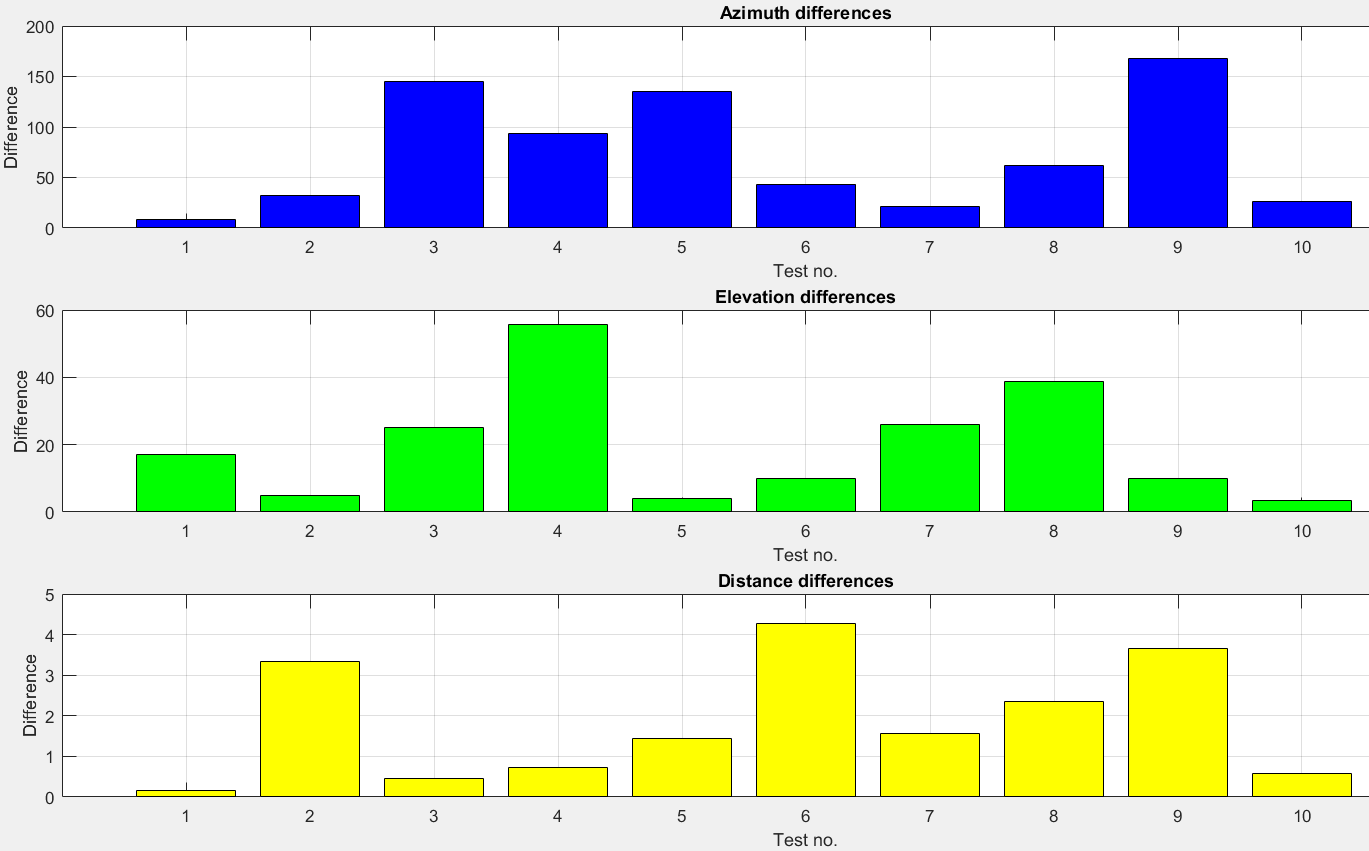
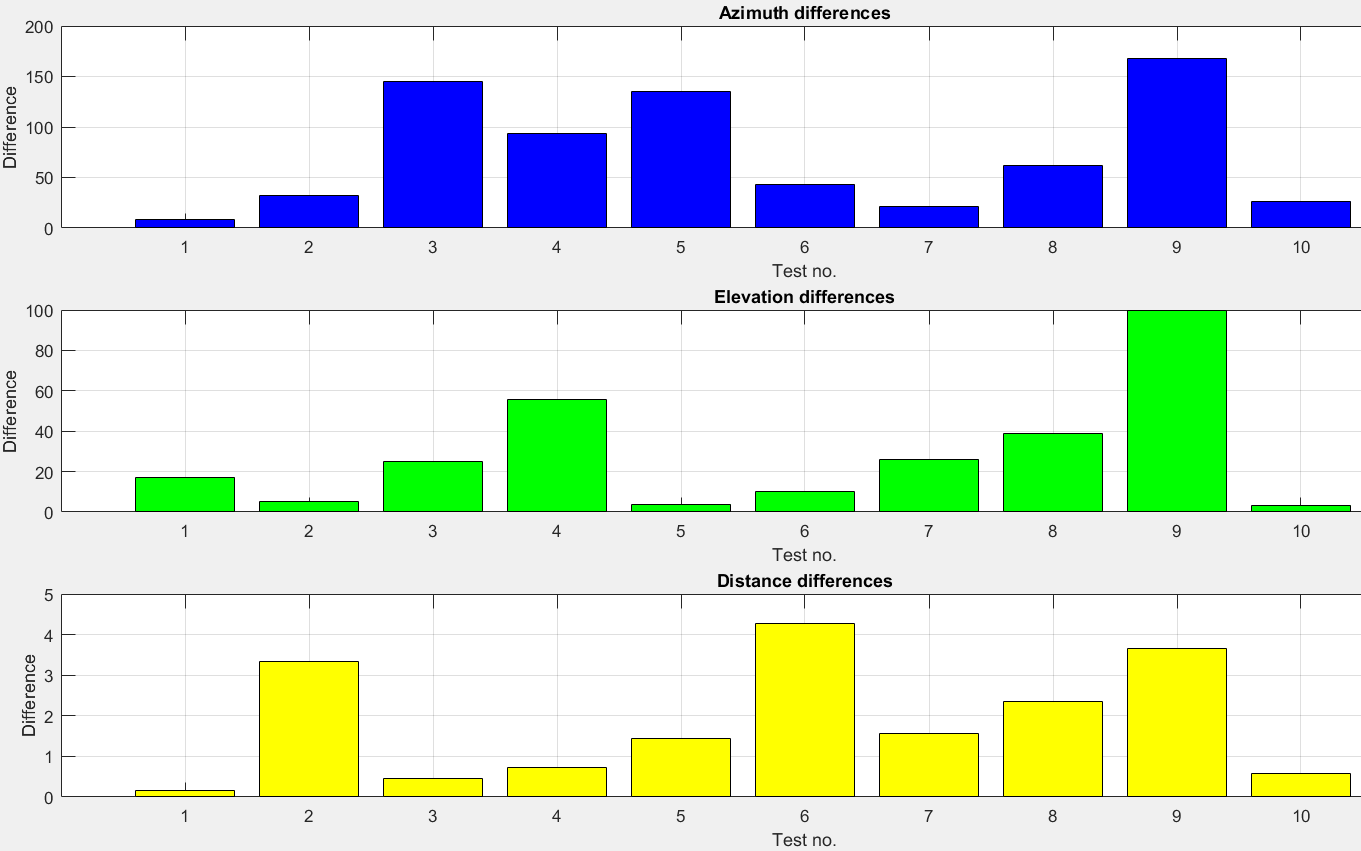
resultater

diff --git a/AUTE/Projekt/Rapport2/Tests/Resultater.tex b/AUTE/Projekt/Rapport2/Tests/Resultater.tex
@@ -1,10 +1,78 @@
 \section{Resultater}
 
+Testsignalerne er placeret som vist i nedenstående tabel.
+
+\begin{tabular}{p{3.2cm}|p{2.3cm}|p{2.3cm}|p{2.3cm}}
+	Testsignal nr. & Azimuth i grader & Elevation i grader & Distance i meter \\\hline
+	Referencesignalet & 0 & 0 & 1 \\
+	1 &90&0&1 \\
+	2 &270&0&2 \\
+	3 &180&0&1 \\
+	4 &180&-30&1 \\
+	5 &0&30&1 \\
+	6 &60&10&3 \\
+	7 &240&-10&0.5 \\
+	8 &5&-20&1.1 \\
+	9 &0&90&2 \\
+	10 &135&0&9.8 \\
+\end{tabular}
+
+Med alle indsamlede data fra lyttetestene, laves plottet på figur \ref{fig:allplots}. Her ses det, at selvom en del af resultaterne rammer nogenlunde indenfor de angivne testsignaler, er der mange svar som er placeret meget langt fra testsignalerne. 
+
 
 
 \begin{figure}
 	\centering
-	\includegraphics[width=1\linewidth]{All_Pics/resoverblikdiff.png}
-	\caption{}
+	\includegraphics[width=1\linewidth]{All_Pics/allplots}
+	\caption{Plot af både lyttetestens testsignaler, samt alle angivne svar.}
+	\label{fig:allplots}
+\end{figure}
+
+Zommes der ind på et enkelt testsignal, kan man se hvordan svarende har placeret sig. Når figur \ref{fig:test1plot} og figur \ref{fig:test8plot} sammenlignes, ses det, at der er væsenstligt flere svar som ligger i samme position for testsignal nr. 1, end for testsignal nr. 8. Det må deraf konkluderes at testsignal nr. 8, har været en sværere position af høre, end testsignal nr. 1.
+
+\begin{figure}[h]
+	\centering
+	\includegraphics[width=1\linewidth]{All_Pics/test1plot}
+	\caption{Plot af svarene for testsignal nr. 1}
+	\label{fig:test1plot}
+\end{figure}
+
+\begin{figure}[h]
+	\centering
+	\includegraphics[width=1\linewidth]{All_Pics/test8plot}
+	\caption{Plot af svarene for testsignal nr. 8}
+	\label{fig:test8plot}
+\end{figure}
+
+Dette kan ligeledes konkluderes ud fra figur \ref{fig:test1stat} og figur \ref{fig:test8stat} som viser normalfordelingskurverne ud fra de udregnede middelværdier og standardafvigelser af svarene. Det ses at middelværdierne ligger væsentligt tættere på den aktuelle værdi for testsignal 1, og at kurverne for testsignal 8 er væsentligt bredere, hvilket indikerer en stor spredning i svarene. 
+
+\begin{figure}[h]
+	\centering
+	\includegraphics[width=1.1\linewidth]{All_Pics/test1stat}
+	\caption{Statistisk normalfordeling af svarene for testsignal nr. 1}
+	\label{fig:test1stat}
+\end{figure}
+
+\begin{figure}[h]
+	\centering
+	\includegraphics[width=1.1\linewidth]{All_Pics/test8stat}
+	\caption{Statistisk normalfordeling af svarene for testsignal nr. 1}
+	\label{fig:test8stat}
+\end{figure}
+
+Udregner man forskellen mellem de beregnede middelværdier og de aktuelle værdier for både azimuth, elevation og distance, kan man danne sig et overblik over, hvilke testsignaler der har været svære at høre. På figur \ref{fig:resoverblikdiff} kan det ses, at testsignal nr. 9 var det sværeste at høre både når det galt azimuth og elevation, mens det i distancen var signal nr. 6 som var vanskeligst at afgøre. Dette kan bl.a. skyldes, at testsignal nr. 9 var placeret direkte over hovedet af lyttepositionen, som både er en svær position at bedømme i det 'normale' akustiske domæne, samt svært at gengive i det digitale. 
+Testsignal nr. 1 er med disse resultater, det signal som er nemmest at bestemme azimuth og distance på, mens det for elevation er signal nr. 10 som var det nemmeste.
+
+
+\begin{figure}[h]
+	\centering
+	\includegraphics[width=1\linewidth]{All_Pics/resoverblikdiff}
+	\caption{Difference udsving mellem den aktuelle position og de midlede testresultater.}
 	\label{fig:resoverblikdiff}
 \end{figure}
+
+
+
+
+
+

diff --git a/AUTE/Lyttetest_mathLS.m b/AUTE/Lyttetest_mathLS.m
@@ -20,7 +20,7 @@ A2 = [0 0 1;
     60 10 3;
     240 -10 0.5;
     5 -20 1.1;
-    0 0 2;
+    0 90 2;
     135 0 9.8];
 
 azimeandiff = zeros(1,10);
@@ -112,7 +112,7 @@ zlabel('Z');
 plot3(A(2,1),A(2,2),A(2,3),'b o','Markersize',10)
 grid on
 plot3(T1(:,1),T1(:,2),T1(:,3),'g o')
-legend('Listener position','Testsignal','Answers')
+legend('Listener position','Testsignal','Answers','Location','NorthEast')
 
 %% Test 2
 %close all
@@ -616,7 +616,7 @@ zlabel('Z');
 plot3(A(j,1),A(j,2),A(j,3),'b o','Markersize',10)
 grid on
 plot3(T1(:,1),T1(:,2),T1(:,3),'g o')
-legend('Listener position','Testsignal','Answers')
+legend('Listener position','Testsignal','Answers','Location','NorthEast')
 
 %% Test 9
 %close all
@@ -629,7 +629,7 @@ T1 = [-5 0 0;
     -1.4 1.4 0;
     5.6 0 2.1;
     -6.6 0 -2.4;
-    270 0 1];
+    0 -1 0];
 
 
 T2 = [180 0 5;
@@ -800,3 +800,118 @@ ylabel('Difference')
 [azimaks aziindma] = max(abs(azimeandiff))
 [elemaks eleindma] = max(abs(elemeandiff))
 [dismaks disindma] = max(abs(dismeandiff))
+
+%% All plots
+
+T1 = [0.3 0.3 0.4;
+    0 1 0;
+    0 1 0;
+    0 0.5 0;
+    0 1.9 0.7;
+    0.4 0.6 0.7;
+    0 0.4 0.4;
+    0 1 0;
+    0 0.5 0];
+T2 = [0 -10 0;
+    0 0.5 0;
+    -5.8 -5.8 -5.7;
+    -4.3 -4.3 -3.5;
+    -0.4 -0.8 -0.5;
+    -1.3 -3.5 -1.4;
+    0 -7.1 7.1;
+    0.9 -1.5 4.7;
+    0 -0.4 0.4];
+T3 = [1 0 0;
+    0.5 0.5 0.7;
+    1 0 0;
+    1 0 0;
+    1 0 0;
+    0 0 1;
+    1 0 0;
+    1 0 0;
+    0 0 5];
+T4 = [0.7 0 0.7;
+    0.4 0 0.4;
+    1 0 0;
+    -1 0 0;
+    4 0 0.3;
+    0.6 -.4 .7;
+    1 0 0;
+    1 0 0;
+    0 0 5];
+T5 = [-.7 0 .7;
+    1.9 0 -1.6;
+    1 0 0;
+    2.5 -1.4 0.8;
+    2.6 1.5 0.5;
+    -0.5 -0.5 0.7;
+    0.5 0 0;
+    -1.7 0 4.7;
+    0 0 5];
+T6 = [-3.2 1.5 3.5;
+    0 7.1 7.1;
+    0 5 0;
+    0 7.7 -6.4;
+    0 8 0;
+    -1.5 1.5 -1.3;
+    0 10 0;
+    -1.6 9.3 -3.4;
+    0 5 0];
+T7 = [0 -.4 .4;
+    0 -5 0;
+    -2.7 -2.7 -3.2;
+    0.9 -4.9 0;
+    -0.3 -0.4 0;
+    -0.3 -0.4 0;
+    0.1 -0.4 0.3;
+    0 -0.9 0.3;
+    0 0 5];
+T8 = [5 0 0;
+    5 0 0;
+    -2.9 2.9 -2.9;
+    -1.3 1.3 -.7;
+    0.8 1.4 1.1;
+    0 0 1;
+    1 0 0;
+    4.9 0 0.9;
+    0 0 5]; 
+T9 = [-5 0 0;
+    7.7 0 -6.4;
+    0 -10 0;
+    -4.4 1.6 -1.7;
+    3.1 -3.1 -2.5;
+    -1.4 1.4 0;
+    5.6 0 2.1;
+    -6.6 0 -2.4;
+    0 -1 0]; 
+T10 = [10 0 0;
+    0 -9.8 1.7;
+    -5.4 5.4 -6.4;
+    -7.2 2.6 -6.4;
+    3.8 6.6 -6.4;
+    -5.3 5.3 -2.7;
+    -1.5 8.5 5;
+    2.8 2 9.4;
+    0.9 4.9 0];
+
+
+figure()
+plot3(0,0,0,'r o','Markersize',10)
+title('All testplots')
+hold on
+xlabel('X');
+ylabel('Y');
+zlabel('Z');
+plot3(A(:,1),A(:,2),A(:,3),'b o','Markersize',10)
+grid on
+plot3(T1(:,1),T1(:,2),T1(:,3),'g o')
+plot3(T2(:,1),T2(:,2),T2(:,3),'g o')
+plot3(T3(:,1),T3(:,2),T3(:,3),'g o')
+plot3(T4(:,1),T4(:,2),T4(:,3),'g o')
+plot3(T5(:,1),T5(:,2),T5(:,3),'g o')
+plot3(T6(:,1),T6(:,2),T6(:,3),'g o')
+plot3(T7(:,1),T7(:,2),T7(:,3),'g o')
+plot3(T8(:,1),T8(:,2),T8(:,3),'g o')
+plot3(T9(:,1),T9(:,2),T9(:,3),'g o')
+plot3(T10(:,1),T10(:,2),T10(:,3),'g o')
+legend('Listener position','Testsignals','Answers','Location','NorthEast')
